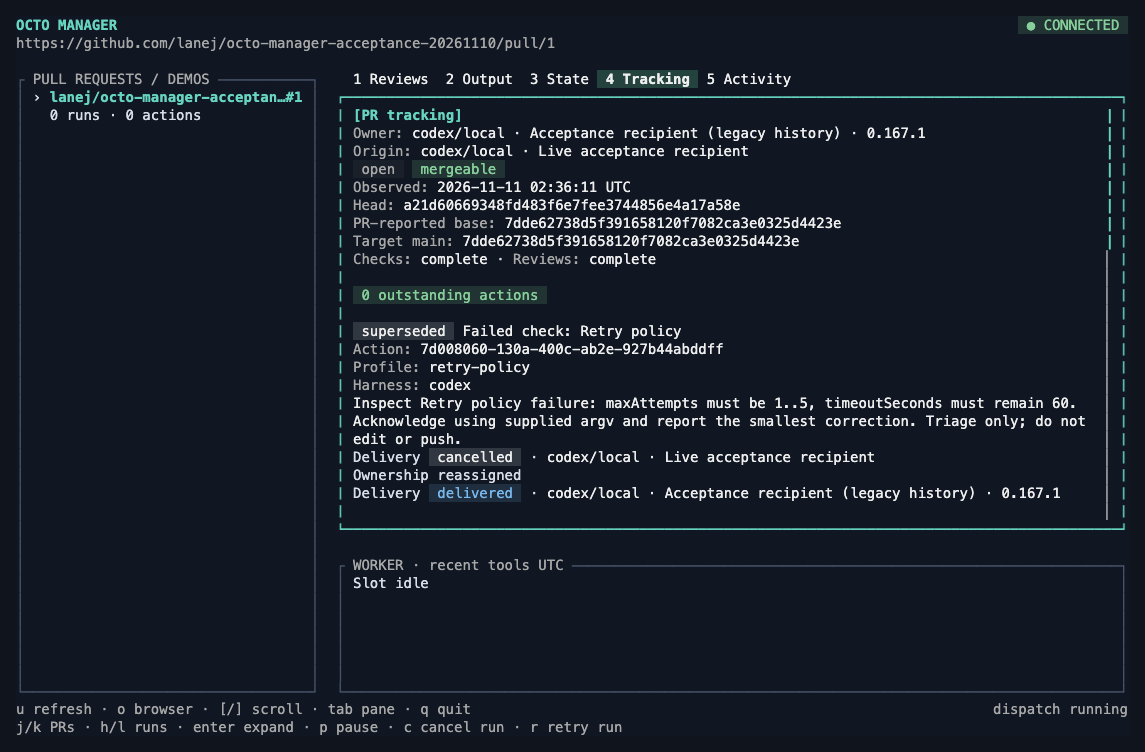
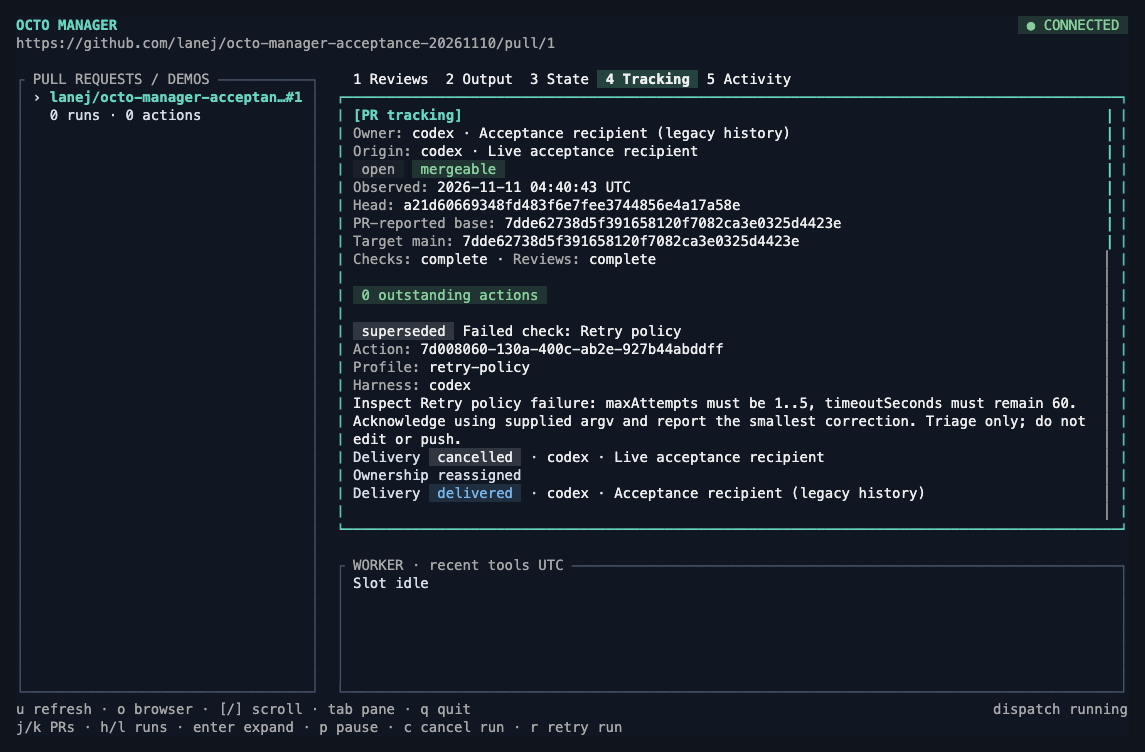
fix(tui): show readable session context
Detected-By: user

diff --git a/src/gen/octomanager/v1/activity_pb.ts b/src/gen/octomanager/v1/activity_pb.ts
@@ -10,7 +10,7 @@ import type { Message } from "@bufbuild/protobuf";
  * Describes the file octomanager/v1/activity.proto.
  */
 export const file_octomanager_v1_activity: GenFile = /*@__PURE__*/
[2 lines of base64/hex data omitted]
 
 /**
  * @generated from message octomanager.v1.ActivityActor
@@ -35,6 +35,16 @@ export type ActivityActor = Message<"octomanager.v1.ActivityActor"> & {
    * @generated from field: optional string model = 4;
    */
   model?: string | undefined;
+
+  /**
+   * @generated from field: optional string label = 5;
+   */
+  label?: string | undefined;
+
+  /**
+   * @generated from field: optional string cwd = 6;
+   */
+  cwd?: string | undefined;
 };
 
 /**

diff --git a/test/activity.test.ts b/test/activity.test.ts
@@ -1,8 +1,8 @@
 import { test } from "bun:test";
 import assert from "node:assert/strict";
-import { mkdtemp, rm } from "node:fs/promises";
+import { mkdir, mkdtemp, rm } from "node:fs/promises";
 import { tmpdir } from "node:os";
-import { join } from "node:path";
+import { join, resolve } from "node:path";
 import { DatabaseSync } from "node:sqlite";
 import { Code, ConnectError } from "@connectrpc/connect";
 import { Coordinator } from "../src/coordinator.js";
@@ -23,6 +23,8 @@ const input = {
     sessionId: "caller",
     version: "0.167.0",
     model: "reported-model",
+    label: "Review tracking UI",
+    cwd: process.cwd(),
   },
   detail: "Merged PR after checking the exact head",
   prUrl: "https://github.com/lanej/octo-manager/pull/2",
@@ -33,8 +35,9 @@ function hasCode(code: Code): (error: unknown) => boolean {
   return (error) => error instanceof ConnectError && error.code === code;
 }
 
-async function cli(args: string[]): Promise<string> {
-  const child = Bun.spawn([process.execPath, "src/cli.ts", ...args], {
+async function cli(args: string[], cwd?: string): Promise<string> {
+  const child = Bun.spawn([process.execPath, resolve("src/cli.ts"), ...args], {
+    ...(cwd === undefined ? {} : { cwd }),
     stdout: "pipe",
     stderr: "pipe",
   });
@@ -69,6 +72,8 @@ test("agent CLI reports survive restart without a worker or tracked PR and repla
       input.actor.version,
       "--model",
       input.actor.model,
+      "--label",
+      input.actor.label,
       "--detail",
       input.detail,
       "--url",
@@ -101,6 +106,8 @@ test("agent CLI reports survive restart without a worker or tracked PR and repla
     assert.equal(entry.report?.actor?.sessionId, "caller");
     assert.equal(entry.report.actor.version, input.actor.version);
     assert.equal(entry.report.actor.model, input.actor.model);
+    assert.equal(entry.report.actor.label, input.actor.label);
+    assert.equal(entry.report.actor.cwd, input.actor.cwd);
     assert.equal(entry.report.evidenceUrl, input.evidenceUrl);
     assert.equal(entry.report.name, ActivityName.MERGE_PR);
     assert.equal(entry.report.outcome, ActivityOutcome.SUCCEEDED);
@@ -176,6 +183,11 @@ test("agent CLI reports survive restart without a worker or tracked PR and repla
       assert.equal(
         reopened.activity.list(0)[0]?.actor.version,
         input.actor.version,
+      );
+      assert.equal(reopened.activity.list(0)[0]?.actor.cwd, input.actor.cwd);
+      assert.equal(
+        reopened.activity.list(0)[0]?.actor.label,
+        input.actor.label,
       );
       assert.equal(reopened.sequence(), 203);
     } finally {
@@ -255,6 +267,33 @@ test("activity preserves legacy events and identity, enforces named data, and pa
     }
   } finally {
     store.close();
+    await rm(directory, { recursive: true, force: true });
+  }
+});
+
+test("tracking CLI enrolls from a deep directory with a bounded recognizable label", async () => {
+  const directory = await mkdtemp(join(tmpdir(), "octo-deep-session-"));
+  const cwd = join(directory, "a".repeat(100), "b".repeat(100), "octo-manager");
+  await mkdir(cwd, { recursive: true });
+  const coordinator = new Coordinator(directory);
+  try {
+    await coordinator.start();
+    await cli(
+      [
+        "track",
+        "--state",
+        directory,
+        "--url",
+        "https://github.com/owner/repo/pull/1",
+        "--thread-id",
+        "deep-session",
+        "--json",
+      ],
+      cwd,
+    );
+    assert.equal(coordinator.store.tracking.agents()[0]?.label, "octo-manager");
+  } finally {
+    await coordinator.close();
     await rm(directory, { recursive: true, force: true });
   }
 });

diff --git a/src/cli.ts b/src/cli.ts
@@ -1,6 +1,6 @@
 #!/usr/bin/env bun
 import { activityCLI } from "./activity/cli.js";
-import { parseCommand } from "./arguments.js";
+import { directoryLabel, parseCommand } from "./arguments.js";
 import { homedir } from "node:os";
 import { join, resolve } from "node:path";
 import { fileURLToPath } from "node:url";
@@ -45,7 +45,14 @@ async function main(): Promise<void> {
   const id = argument;
   let result: unknown;
   if (["track","tracked","pr","refresh","assign","untrack","actions","action","acknowledge","working","retry-delivery","reprofile","tracking"].includes(command)) {
-    result=await trackingRequest(directory,command,id,{url:values.url,harness:values.harness,endpoint:values.endpoint,sessionId:values["thread-id"],agentId:values["agent-id"],label:values.label});
+    result = await trackingRequest(directory, command, id, {
+      ...(values.url === undefined ? {} : { url: values.url }),
+      ...(values.harness === undefined ? {} : { harness: values.harness }),
+      ...(values.endpoint === undefined ? {} : { endpoint: values.endpoint }),
+      ...(values["thread-id"] === undefined ? {} : { sessionId: values["thread-id"] }),
+      ...(values["agent-id"] === undefined ? {} : { agentId: values["agent-id"] }),
+      label: values.label ?? directoryLabel(values.cwd ?? process.cwd()),
+    });
   } else if (command === "submit" && argument === "summarize-pr" && values.url) result = await request(directory, { op: "submit", requestId: values["request-id"] ?? randomUUID(), task: { kind: "summarize_pr", url: values.url } });
   else if (command === "demo") {
     const requestId = values["request-id"] ?? randomUUID();

diff --git a/src/activity/cli.ts b/src/activity/cli.ts
@@ -16,7 +16,7 @@ export async function activityCLI(
     return false;
   if (values.help === true) {
     console.log(
-      "record-activity --name merge_pr|run_checks|resolve_conflict|summarize_pr|notify_agent --outcome attempted|succeeded|failed|uncertain --request-id ID --operation-id ID --harness NAME --thread-id ID --detail TEXT [--url PR_URL] [--evidence HTTPS_URL] [--harness-version VERSION] [--model MODEL] [--state DIR]\nactivity [--after SEQUENCE] [--state DIR] [--json]\nActivity records caller reports; it does not execute or independently verify the action.",
+      "record-activity --name merge_pr|run_checks|resolve_conflict|summarize_pr|notify_agent --outcome attempted|succeeded|failed|uncertain --request-id ID --operation-id ID --harness NAME --thread-id ID --detail TEXT [--url PR_URL] [--evidence HTTPS_URL] [--harness-version VERSION] [--model MODEL] [--label TOPIC] [--cwd DIR] [--state DIR]\nactivity [--after SEQUENCE] [--state DIR] [--json]\nActivity records caller reports; it does not execute or independently verify the action.",
     );
     return true;
   }
@@ -39,6 +39,8 @@ export async function activityCLI(
         sessionId: values["thread-id"],
         version: values["harness-version"],
         model: values.model,
+        label: values.label,
+        cwd: values.cwd ?? process.cwd(),
       },
       detail: values.detail,
       prUrl: values.url,

diff --git a/src/activity/types.ts b/src/activity/types.ts
@@ -18,6 +18,8 @@ export interface ActivityActor {
   sessionId: string;
   version?: string;
   model?: string;
+  label?: string;
+  cwd?: string;
 }
 export interface ActivityInput {
   requestId: string;
@@ -69,6 +71,11 @@ export function activityInput(value: unknown): ActivityInput {
   const rawActor = object(input["actor"]);
   const version = optionalText(rawActor["version"], "version");
   const model = optionalText(rawActor["model"], "model");
+  const label = optionalText(rawActor["label"], "label");
+  const cwd =
+    rawActor["cwd"] === undefined
+      ? undefined
+      : text(rawActor["cwd"], "working directory", 4000);
   const prUrl =
     input["prUrl"] === undefined
       ? undefined
@@ -90,6 +97,8 @@ export function activityInput(value: unknown): ActivityInput {
       sessionId: text(rawActor["sessionId"], "session ID"),
       ...(version === undefined ? {} : { version }),
       ...(model === undefined ? {} : { model }),
+      ...(label === undefined ? {} : { label }),
+      ...(cwd === undefined ? {} : { cwd }),
     },
     detail: text(input["detail"], "detail", 4000),
     ...(prUrl === undefined ? {} : { prUrl }),

diff --git a/src/arguments.ts b/src/arguments.ts
@@ -1,3 +1,4 @@
+import { basename } from "node:path";
 import { parseArgs } from "node:util";
 
 export function parseCommand(args: string[]) {
@@ -11,6 +12,7 @@ export function parseCommand(args: string[]) {
       "thread-id": { type: "string" },
       "agent-id": { type: "string" },
       label: { type: "string" },
+      cwd: { type: "string" },
       state: { type: "string" },
       theme: { type: "string" },
       model: { type: "string" },
@@ -28,4 +30,8 @@ export function parseCommand(args: string[]) {
       evidence: { type: "string" },
     },
   });
+}
+
+export function directoryLabel(cwd: string): string {
+  return cwd.length <= 200 ? cwd : basename(cwd).slice(0, 200);
 }

diff --git a/gen/octomanager/v1/activity.pb.go b/gen/octomanager/v1/activity.pb.go
@@ -140,6 +140,8 @@ type ActivityActor struct {
 	SessionId     string                 `protobuf:"bytes,2,opt,name=session_id,json=sessionId,proto3" json:"session_id,omitempty"`
 	Version       *string                `protobuf:"bytes,3,opt,name=version,proto3,oneof" json:"version,omitempty"`
 	Model         *string                `protobuf:"bytes,4,opt,name=model,proto3,oneof" json:"model,omitempty"`
+	Label         *string                `protobuf:"bytes,5,opt,name=label,proto3,oneof" json:"label,omitempty"`
+	Cwd           *string                `protobuf:"bytes,6,opt,name=cwd,proto3,oneof" json:"cwd,omitempty"`
 	unknownFields protoimpl.UnknownFields
 	sizeCache     protoimpl.SizeCache
 }
@@ -198,6 +200,20 @@ func (x *ActivityActor) GetVersion() string {
 func (x *ActivityActor) GetModel() string {
 	if x != nil && x.Model != nil {
 		return *x.Model
+	}
+	return ""
+}
+
+func (x *ActivityActor) GetLabel() string {
+	if x != nil && x.Label != nil {
+		return *x.Label
+	}
+	return ""
+}
+
+func (x *ActivityActor) GetCwd() string {
+	if x != nil && x.Cwd != nil {
+		return *x.Cwd
 	}
 	return ""
 }
@@ -498,16 +514,20 @@ var File_octomanager_v1_activity_proto protoreflect.FileDescriptor
 
 const file_octomanager_v1_activity_proto_rawDesc = "" +
 	"\n" +
-	"\x1doctomanager/v1/activity.proto\x12\x0eoctomanager.v1\"\x98\x01\n" +
+	"\x1doctomanager/v1/activity.proto\x12\x0eoctomanager.v1\"\xdc\x01\n" +
 	"\rActivityActor\x12\x18\n" +
 	"\aharness\x18\x01 \x01(\tR\aharness\x12\x1d\n" +
 	"\n" +
 	"session_id\x18\x02 \x01(\tR\tsessionId\x12\x1d\n" +
 	"\aversion\x18\x03 \x01(\tH\x00R\aversion\x88\x01\x01\x12\x19\n" +
-	"\x05model\x18\x04 \x01(\tH\x01R\x05model\x88\x01\x01B\n" +
+	"\x05model\x18\x04 \x01(\tH\x01R\x05model\x88\x01\x01\x12\x19\n" +
+	"\x05label\x18\x05 \x01(\tH\x02R\x05label\x88\x01\x01\x12\x15\n" +
+	"\x03cwd\x18\x06 \x01(\tH\x03R\x03cwd\x88\x01\x01B\n" +
 	"\n" +
 	"\b_versionB\b\n" +
-	"\x06_model\"\xeb\x02\n" +
+	"\x06_modelB\b\n" +
+	"\x06_labelB\x06\n" +
+	"\x04_cwd\"\xeb\x02\n" +
 	"\rActivityInput\x12\x1d\n" +
 	"\n" +
 	"request_id\x18\x01 \x01(\tR\trequestId\x12!\n" +

diff --git a/internal/tui/activity.go b/internal/tui/activity.go
@@ -200,7 +200,7 @@ func (m *Model) activityContent() string {
 			if context != nil {
 				parts = append(parts, m.link(context.GetPrUrl()))
 				if context.GetActorAgentId() != "" {
-					parts = append(parts, text.Badge(safe(context.GetActorHarness()), m.theme)+" "+text.Label(safe(context.GetActorLabel()), m.theme), m.field("Session", context.GetActorSessionId()))
+					parts = append(parts, text.Badge(safe(context.GetActorHarness()), m.theme)+" "+text.Label(sessionContext(context.GetActorLabel(), "", context.GetActorSessionId()), m.theme))
 				} else {
 					parts = append(parts, m.muted("Coordinator-observed transition."))
 				}
@@ -229,7 +229,7 @@ func (m *Model) activityContent() string {
 			identity += " " + safe(actor.GetVersion())
 		}
 
-		parts = append(parts, text.Badge(identity, m.theme)+" "+m.field("Session", actor.GetSessionId()))
+		parts = append(parts, text.Badge(identity, m.theme)+" "+text.Label(sessionContext(actor.GetLabel(), actor.GetCwd(), actor.GetSessionId()), m.theme))
 		if actor.GetModel() != "" {
 			parts = append(parts, m.field("Model", actor.GetModel()))
 		}

diff --git a/internal/tui/presentation.go b/internal/tui/presentation.go
@@ -3,6 +3,7 @@ package tui
 import (
 	"strings"
 
+	"github.com/charmbracelet/x/ansi"
 	"github.com/lanej/charmed/text"
 	v1 "github.com/lanej/octo-manager/gen/octomanager/v1"
 )
@@ -64,4 +65,37 @@ func outcomeTone(outcome v1.ActivityOutcome) text.Tone {
 	default:
 		return text.Neutral
 	}
+}
+
+func sessionContext(label, cwd, id string) string {
+	if value := strings.TrimSpace(safe(label)); value != "" {
+		if strings.HasPrefix(value, "/") {
+			return compactDirectory(value)
+		}
+
+		return ansi.Truncate(value, 48, "…")
+	}
+
+	if value := strings.TrimSpace(safe(cwd)); value != "" {
+		return compactDirectory(value)
+	}
+
+	if value := safe(id); value != "" {
+		return "session " + ansi.Truncate(value, 8, "")
+	}
+
+	return "Unknown session"
+}
+
+func compactDirectory(value string) string {
+	parts := strings.Split(strings.TrimRight(value, "/"), "/")
+	if len(parts) > 2 {
+		value = "…/" + strings.Join(parts[len(parts)-2:], "/")
+	}
+
+	if value == "" {
+		value = "/"
+	}
+
+	return ansi.Truncate(value, 48, "…")
 }

diff --git a/internal/tui/presentation_test.go b/internal/tui/presentation_test.go
@@ -1,0 +1,30 @@
+package tui
+
+import (
+	"strings"
+	"testing"
+
+	"github.com/charmbracelet/x/ansi"
+)
+
+func TestSessionContextIsShortAndRecognizable(t *testing.T) {
+	t.Parallel()
+
+	cases := []struct{ label, cwd, id, want string }{
+		{"Fix blocker tracking", "/Users/joshlane/src/octo-manager", "01a1c358-7438-7c03-beaf-63e133fc5950", "Fix blocker tracking"},
+		{"", "/Users/joshlane/src/octo-manager", "opaque", "…/src/octo-manager"},
+		{"/Users/joshlane/src/octo-manager", "", "opaque", "…/src/octo-manager"},
+		{"", "", "01a1c358-7438-7c03-beaf-63e133fc5950", "session 01a1c358"},
+		{"", "/", "opaque", "/"},
+		{"", "", "", "Unknown session"},
+	}
+	for _, c := range cases {
+		if got := sessionContext(c.label, c.cwd, c.id); got != c.want {
+			t.Errorf("session context = %q, want %q", got, c.want)
+		}
+	}
+
+	if got := sessionContext(strings.Repeat("界", 80), "", "opaque"); ansi.StringWidth(got) > 48 {
+		t.Fatal("topic exceeds its display bound")
+	}
+}

diff --git a/internal/tui/tracking.go b/internal/tui/tracking.go
@@ -22,20 +22,12 @@ func (m *Model) agentLabel(id string) string {
 
 		target := agent.GetTarget()
 
-		label := target.GetLabel()
-		if label == "" {
-			label = target.GetSessionId()
-		}
-
-		result := safe(target.GetHarness()) + "/" + safe(target.GetEndpoint()) + " · " + safe(label)
-		if agent.GetHarnessVersion() != "" {
-			result += " · " + safe(agent.GetHarnessVersion())
-		}
+		result := safe(target.GetHarness()) + " · " + sessionContext(target.GetLabel(), "", target.GetSessionId())
 
 		return result
 	}
 
-	return safe(id)
+	return sessionContext("", "", id)
 }
 
 func actionClosed(state v1.ActionState) bool {

diff --git a/internal/tui/activity_test.go b/internal/tui/activity_test.go
@@ -223,7 +223,7 @@ func TestActivityShowsHistoricalActionContextAndLegacyGaps(t *testing.T) {
 	}
 
 	source := ansi.Strip(m.activityContent())
-	for _, expected := range []string{"acknowledged", "https://github.com/owner/repo/pull/1", "codex", "Original owner", "Session: first", "Legacy event: transition state and actor were not recorded"} {
+	for _, expected := range []string{"acknowledged", "https://github.com/owner/repo/pull/1", "codex", "Original owner", "Legacy event: transition state and actor were not recorded"} {
 		if !strings.Contains(source, expected) {
 			t.Fatalf("activity omitted %q", expected)
 		}
